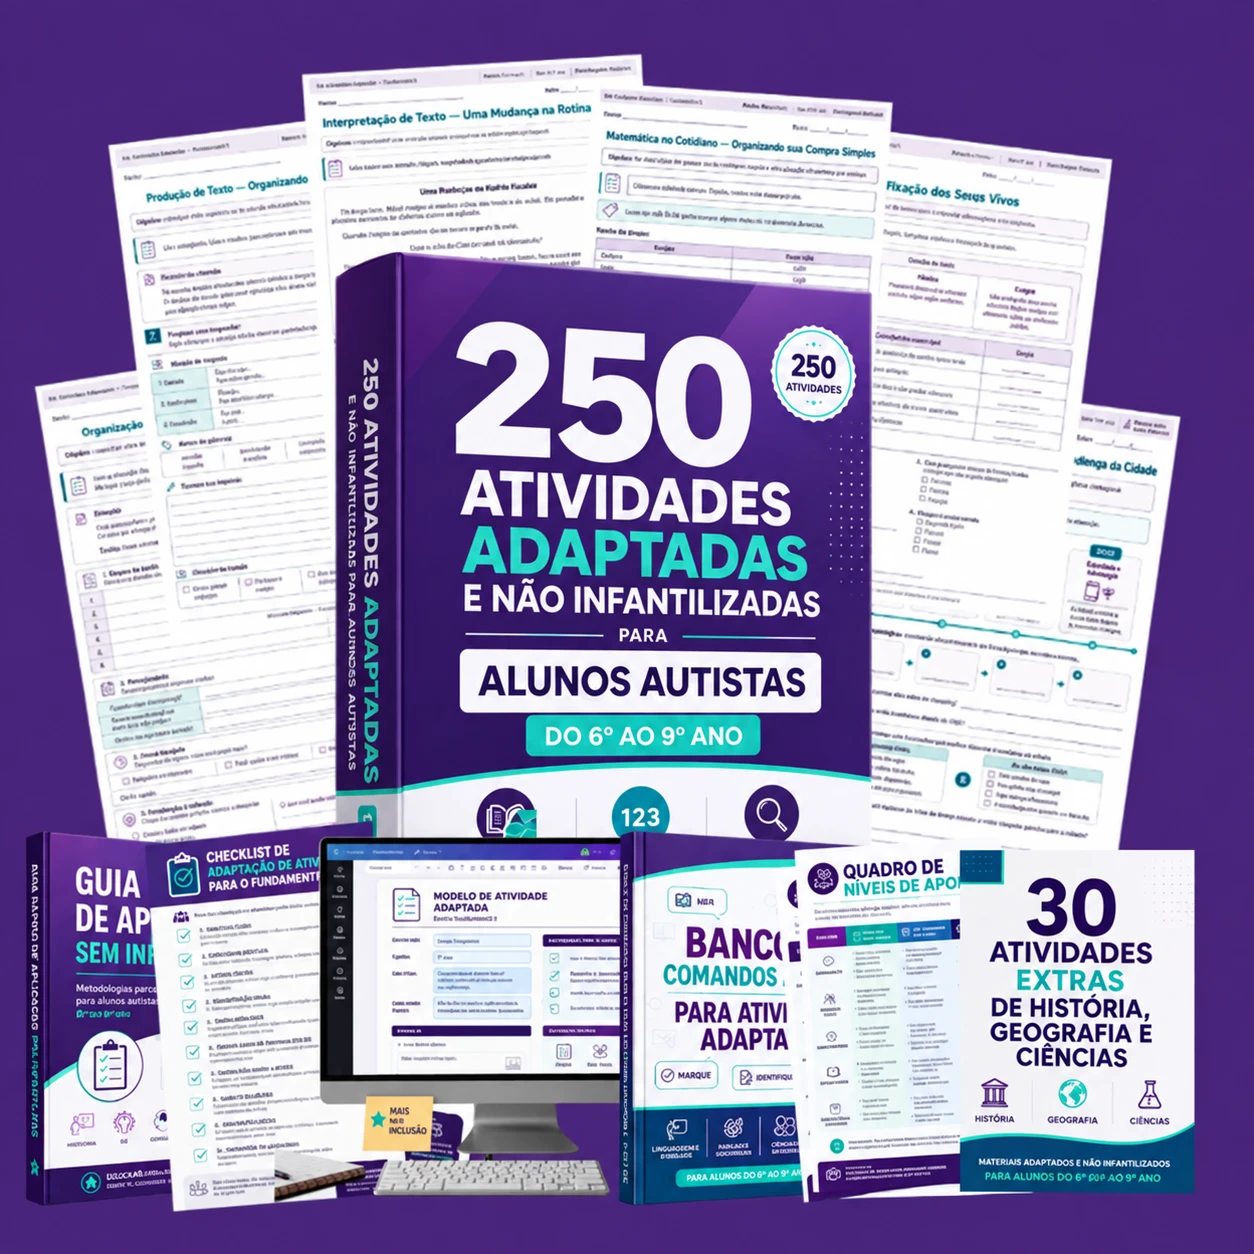
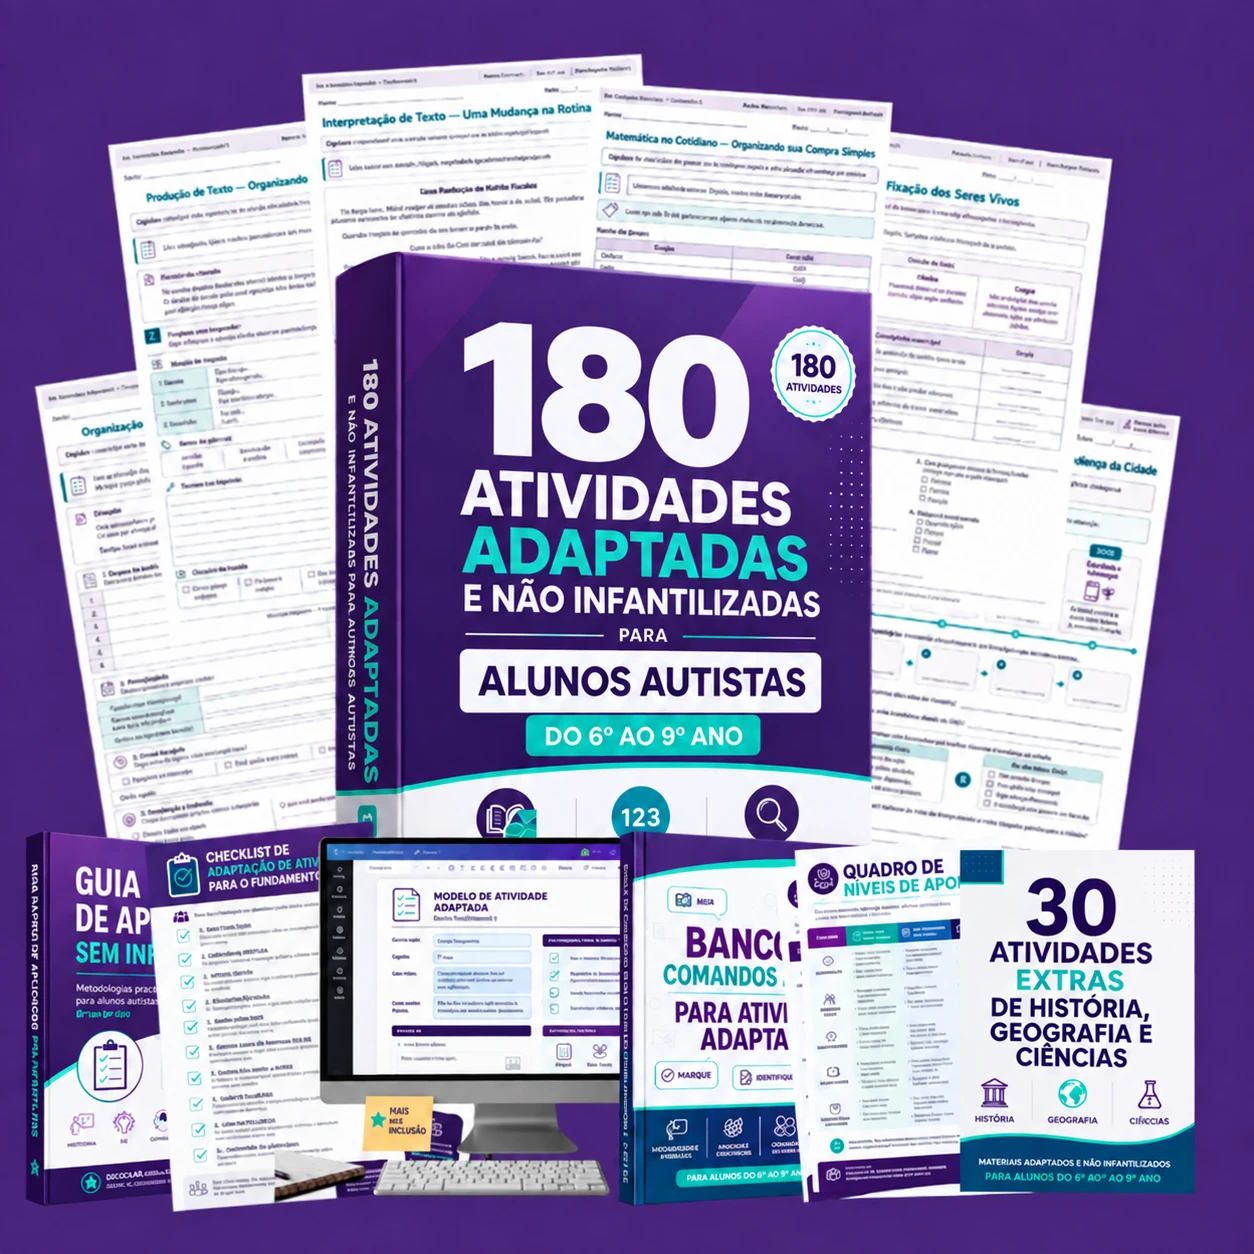
Volta para 150 atividades (básico) e 180 (completo)

diff --git a/index.html b/index.html
@@ -3,14 +3,14 @@
 <head>
 <meta charset="utf-8">
 <meta name="viewport" content="width=device-width, initial-scale=1">
-<title>180 Atividades Adaptadas e Não Infantilizadas — Alunos Autistas do 6º ao 9º ano</title>
-<meta name="description" content="180 atividades adaptadas para alunos autistas do 6º ao 9º ano, organizadas por matéria, ano e nível de apoio, prontas para imprimir em folha comum.">
+<title>150 Atividades Adaptadas e Não Infantilizadas — Alunos Autistas do 6º ao 9º ano</title>
+<meta name="description" content="150 atividades adaptadas para alunos autistas do 6º ao 9º ano, organizadas por matéria, ano e nível de apoio, prontas para imprimir em folha comum.">
 <meta name="theme-color" content="#2b1466">
 <link rel="icon" href="favicon.ico" sizes="any">
 <link rel="icon" type="image/png" sizes="64x64" href="imagens/favicon-64.png">
 <link rel="apple-touch-icon" href="imagens/favicon-180.png">
 <meta property="og:type" content="website">
-<meta property="og:title" content="180 Atividades Adaptadas e Não Infantilizadas — Alunos Autistas do 6º ao 9º ano">
+<meta property="og:title" content="150 Atividades Adaptadas e Não Infantilizadas — Alunos Autistas do 6º ao 9º ano">
 <meta property="og:description" content="Organizadas por matéria, ano e nível de apoio, prontas para imprimir em folha comum e aplicar na próxima aula.">
 <meta property="og:url" content="https://site-atividades-adaptadas.vercel.app/">
 <meta property="og:image" content="https://site-atividades-adaptadas.vercel.app/imagens/og.jpg">
@@ -197,10 +197,10 @@ footer a{text-decoration:underline}
 <section class="hero dark">
   <div class="wrap">
     <span class="pill">Atividades Adaptadas e Não Infantilizadas</span>
-    <h1>180 atividades adaptadas para alunos autistas do 6º ao 9º ano, com visual que não trata adolescente como criança</h1>
+    <h1>150 atividades adaptadas para alunos autistas do 6º ao 9º ano, com visual que não trata adolescente como criança</h1>
     <p class="sub">organizadas por matéria, ano e nível de apoio, prontas para imprimir em folha comum e aplicar na próxima aula.</p>
     <figure class="ph"><img src="imagens/hero-comparacao.webp" alt="O que você encontra por aí vs. o que você vai receber" onerror="this.remove()">imagens/hero-comparacao.webp<br>(o que você encontra por aí × o que você vai receber)</figure>
-    <a class="btn" href="#oferta">Quero as 180 atividades</a>
+    <a class="btn" href="#oferta">Quero as 150 atividades</a>
     <p class="note">Download imediato · Acesso vitalício</p>
   </div>
 </section>
@@ -209,15 +209,15 @@ footer a{text-decoration:underline}
 <section class="dor dark">
   <div class="wrap">
     <p>Você não precisa que ninguém te explique por que adaptar é necessário. Você já adapta. O que consome o seu tempo é outra coisa: encontrar material que sirva. Você procura, acha alguma coisa, abre e é alfabetização. Acha outra, é pontilhado. Acha uma terceira, tem letra bolha e um ursinho no canto. Aí você abre o Word ou o Canva às onze da noite de domingo e monta você mesma, de novo, porque o aluno tem 14 anos e não vai aceitar folha de criança.</p>
-    <p>Aqui você recebe 180 atividades que já nascem prontas para essa realidade. Conteúdo de Fundamental 2 com a complexidade ajustada, comando de uma linha, uma tarefa por vez, espaço de resposta proporcional a quem escreve com dificuldade e nenhum elemento visual infantil em nenhuma página. Cada folha traz impresso no topo a matéria, o ano indicado e o nível de apoio, então você escolhe pelo que está escrito e não pelo que você imagina.</p>
+    <p>Aqui você recebe 150 atividades que já nascem prontas para essa realidade. Conteúdo de Fundamental 2 com a complexidade ajustada, comando de uma linha, uma tarefa por vez, espaço de resposta proporcional a quem escreve com dificuldade e nenhum elemento visual infantil em nenhuma página. Cada folha traz impresso no topo a matéria, o ano indicado e o nível de apoio, então você escolhe pelo que está escrito e não pelo que você imagina.</p>
     <ul class="check">
-      <li>180 atividades em PDF A4, prontas para imprimir em folha comum e preto e branco</li>
+      <li>150 atividades em PDF A4, prontas para imprimir em folha comum e preto e branco</li>
       <li>Português, Interpretação, Produção de Texto, Matemática, Ciências, História, Geografia, Rotina e Organização Escolar</li>
       <li>Organizadas por matéria, por ano do 6º ao 9º e por três níveis de apoio: leve, moderado e alto</li>
       <li>Visual maduro, sem letra bolha, sem pontilhado, sem desenho para colorir</li>
       <li>Serve em sala regular, AEE, sala de recursos, reforço, atendimento psicopedagógico e uso em casa</li>
     </ul>
-    <a class="btn" href="#oferta">Quero as 180 atividades</a>
+    <a class="btn" href="#oferta">Quero as 150 atividades</a>
     <p class="note">📲 Você recebe tudo na hora, direto no seu WhatsApp e no seu e-mail</p>
   </div>
 </section>
@@ -284,7 +284,7 @@ footer a{text-decoration:underline}
       <p>Você abre a pasta da matéria, filtra pelo ano do aluno, confere o nível de apoio no topo da folha e manda imprimir. Não tem etapa de preparação entre o arquivo e a mão do seu aluno.</p>
       <figure class="ph"><img src="imagens/mockup-completo.webp" alt="Mockup do material completo com bônus" onerror="this.remove()">imagens/mockup-completo.webp</figure>
       <ul class="check white">
-        <li>180 atividades adaptadas e não infantilizadas em PDF A4</li>
+        <li>150 atividades adaptadas e não infantilizadas em PDF A4</li>
         <li>Bloco 1, Leitura e Interpretação: textos curtos, enunciados simplificados e perguntas objetivas</li>
         <li>Bloco 2, Produção de Frases e Pequenos Textos: organização de ideias, frases guiadas e ampliação de vocabulário</li>
         <li>Bloco 3, Português Básico: vocabulário, classes de palavras, pontuação e compreensão de comandos</li>
@@ -325,7 +325,7 @@ footer a{text-decoration:underline}
     <div class="bcard"><span class="n">BÔNUS #3</span>
       <figure class="ph"><img src="imagens/bonus-4.webp" alt="30 Atividades Extras de História, Geografia e Ciências" onerror="this.remove()">imagens/bonus-4.webp</figure>
       <h3>30 Atividades Extras de História, Geografia e Ciências</h3>
-      <p>Mais 30 folhas no mesmo padrão, 10 de cada matéria, para ampliar o repertório de humanas e ciências. Com elas você fica com 250 atividades no total</p>
+      <p>Mais 30 folhas no mesmo padrão, 10 de cada matéria, para ampliar o repertório de humanas e ciências. Com elas você fica com 180 atividades no total</p>
       <span class="val">Valor: <s>R$27</s> <b>GRÁTIS</b></span>
     </div>
     <div class="bcard"><span class="n">BÔNUS #4</span>
@@ -357,10 +357,10 @@ footer a{text-decoration:underline}
 
     <div class="plan">
       <span class="tag">Plano básico</span>
-      <figure class="ph"><img src="imagens/plano-basico.webp" alt="Plano Básico — 180 atividades adaptadas" onerror="this.remove()">imagens/plano-basico.webp</figure>
+      <figure class="ph"><img src="imagens/plano-basico.webp" alt="Plano Básico — 150 atividades adaptadas" onerror="this.remove()">imagens/plano-basico.webp</figure>
       <p class="lead">Você recebe:</p>
       <ul class="check">
-        <li>180 atividades adaptadas e não infantilizadas</li>
+        <li>150 atividades adaptadas e não infantilizadas</li>
         <li>Os 7 blocos completos, de Leitura a Rotina e Organização Escolar</li>
         <li>Organização por matéria, ano e nível de apoio</li>
         <li>Versão digital e imprimível em A4</li>
@@ -379,10 +379,10 @@ footer a{text-decoration:underline}
       <span class="top">⚡ Mais vendido</span>
       <p class="eyebrow fire">🔥 Última chance — oferta termina hoje</p>
       <span class="tag">Plano completo</span>
-      <p class="lead">⚡ 250 atividades + 6 bônus de aplicação</p>
-      <figure class="ph"><img src="imagens/mockup-completo.webp" alt="Plano Completo — 250 atividades + 6 bônus" onerror="this.remove()">imagens/mockup-completo.webp</figure>
+      <p class="lead">⚡ 180 atividades + 6 bônus de aplicação</p>
+      <figure class="ph"><img src="imagens/mockup-completo.webp" alt="Plano Completo — 180 atividades + 6 bônus" onerror="this.remove()">imagens/mockup-completo.webp</figure>
       <ul class="check white">
-        <li>180 atividades adaptadas e não infantilizadas</li>
+        <li>150 atividades adaptadas e não infantilizadas</li>
         <li>Os 7 blocos completos, de Leitura a Rotina e Organização Escolar</li>
         <li>Organização por matéria, ano e nível de apoio</li>
         <li>Versão digital e imprimível em A4</li>
@@ -446,7 +446,7 @@ footer a{text-decoration:underline}
   <div class="wrap">
     <h2>Perguntas frequentes</h2>
     <details><summary>Serve para o nível de apoio do meu aluno?</summary><p>Cada atividade traz impresso no topo o nível de apoio que ela exige: leve, moderado ou alto. No apoio leve a folha é mais densa e o aluno tem mais autonomia. No moderado o comando é mais curto, com apoio visual e mediação pontual. No alto a tarefa é mais enxuta, uma coisa de cada vez e mais guiada. A mesma habilidade aparece em níveis diferentes, então se ele travou você troca a folha e imprime outra na hora. O Bônus #6 explica os três níveis em detalhe.</p></details>
-    <details><summary>As atividades são adequadas para aluno do Fundamental 2 mesmo?</summary><p>Sim, e essa é a razão de existir do material. A complexidade da habilidade é reduzida, a apresentação não. Não tem letra bolha, pontilhado, personagem infantil, carinha sorridente nem desenho para colorir em nenhuma das 180 folhas. Os temas, as imagens e a linguagem são compatíveis com quem tem entre 11 e 15 anos.</p></details>
+    <details><summary>As atividades são adequadas para aluno do Fundamental 2 mesmo?</summary><p>Sim, e essa é a razão de existir do material. A complexidade da habilidade é reduzida, a apresentação não. Não tem letra bolha, pontilhado, personagem infantil, carinha sorridente nem desenho para colorir em nenhuma das 150 folhas. Os temas, as imagens e a linguagem são compatíveis com quem tem entre 11 e 15 anos.</p></details>
     <details><summary>Preciso ser da área de inclusão para aplicar?</summary><p>Não. A adaptação já vem feita e vem escrita na própria folha, com o foco da atividade e a instrução no topo. Não tem manual para estudar antes nem curso para fazer. Você lê, imprime e aplica. Serve para professor de matéria comum que recebeu um aluno autista, para profissional de AEE, para psicopedagogo e para responsável em casa.</p></details>
     <details><summary>Funciona em escola pública, sem recurso?</summary><p>Sim. As atividades foram feitas para impressão em folha sulfite comum, em preto e branco. Não dependem de impressora colorida, de plastificação, de papel especial nem de material extra.</p></details>
     <details><summary>Qual é o formato e como eu acesso?</summary><p>São arquivos em PDF de alta resolução, para abrir no celular, no tablet ou no computador, com versão imprimível em A4. O acesso é liberado logo após a confirmação do pagamento e é vitalício.</p></details>
@@ -465,7 +465,7 @@ footer a{text-decoration:underline}
   </div>
 </footer>
 
-<div class="sticky" id="sticky"><a class="btn" href="#oferta">Quero as 180 atividades</a></div>
+<div class="sticky" id="sticky"><a class="btn" href="#oferta">Quero as 150 atividades</a></div>
 <script>
 document.getElementById('hoje').textContent=new Date().toLocaleDateString('pt-BR');
 // ponytail: mostra o CTA fixo só depois do hero

diff --git a/termos-de-uso.html b/termos-de-uso.html
@@ -28,14 +28,14 @@ footer a{color:var(--muted)}
 </style>
 </head>
 <body>
-<div class="top"><a href="/">180 Atividades Adaptadas e Não Infantilizadas</a></div>
+<div class="top"><a href="/">150 Atividades Adaptadas e Não Infantilizadas</a></div>
 <main><div class="card">
 <a class="voltar" href="/">← Voltar ao site</a>
 <h1>Termos de Uso</h1>
 <p class="data">Última atualização: 19 de setembro de 2026</p>
 
 <h2>1. O produto</h2>
-<p>O <b>"180 Atividades Adaptadas e Não Infantilizadas para Alunos Autistas do 6º ao 9º ano"</b> é um material pedagógico digital, entregue em arquivos PDF (e modelos editáveis, quando incluídos no plano adquirido), para uso em sala regular, AEE, sala de recursos, reforço, atendimento psicopedagógico ou em casa.</p>
+<p>O <b>"150 Atividades Adaptadas e Não Infantilizadas para Alunos Autistas do 6º ao 9º ano"</b> é um material pedagógico digital, entregue em arquivos PDF (e modelos editáveis, quando incluídos no plano adquirido), para uso em sala regular, AEE, sala de recursos, reforço, atendimento psicopedagógico ou em casa.</p>
 <p>O material <b>não é diagnóstico, avaliação clínica nem substitui</b> o acompanhamento pedagógico ou terapêutico do aluno.</p>
 
 <h2>2. Compra e acesso</h2>

diff --git a/politica-de-privacidade.html b/politica-de-privacidade.html
@@ -28,14 +28,14 @@ footer a{color:var(--muted)}
 </style>
 </head>
 <body>
-<div class="top"><a href="/">180 Atividades Adaptadas e Não Infantilizadas</a></div>
+<div class="top"><a href="/">150 Atividades Adaptadas e Não Infantilizadas</a></div>
 <main><div class="card">
 <a class="voltar" href="/">← Voltar ao site</a>
 <h1>Política de Privacidade</h1>
 <p class="data">Última atualização: 19 de setembro de 2026</p>
 
 <h2>1. Quem é o responsável</h2>
-<p>Este site é operado pelo responsável pelo produto <b>"180 Atividades Adaptadas e Não Infantilizadas para Alunos Autistas do 6º ao 9º ano"</b>, que trata os dados descritos aqui nos termos da Lei Geral de Proteção de Dados (Lei nº 13.709/2018 — LGPD).</p>
+<p>Este site é operado pelo responsável pelo produto <b>"150 Atividades Adaptadas e Não Infantilizadas para Alunos Autistas do 6º ao 9º ano"</b>, que trata os dados descritos aqui nos termos da Lei Geral de Proteção de Dados (Lei nº 13.709/2018 — LGPD).</p>
 
 <h2>2. O que este site coleta</h2>
 <p>Esta é uma página de apresentação do produto. Ela <b>não possui formulário de cadastro, não pede senha e não processa pagamentos</b>. Nenhum dado de cartão, CPF ou endereço passa por aqui.</p>
